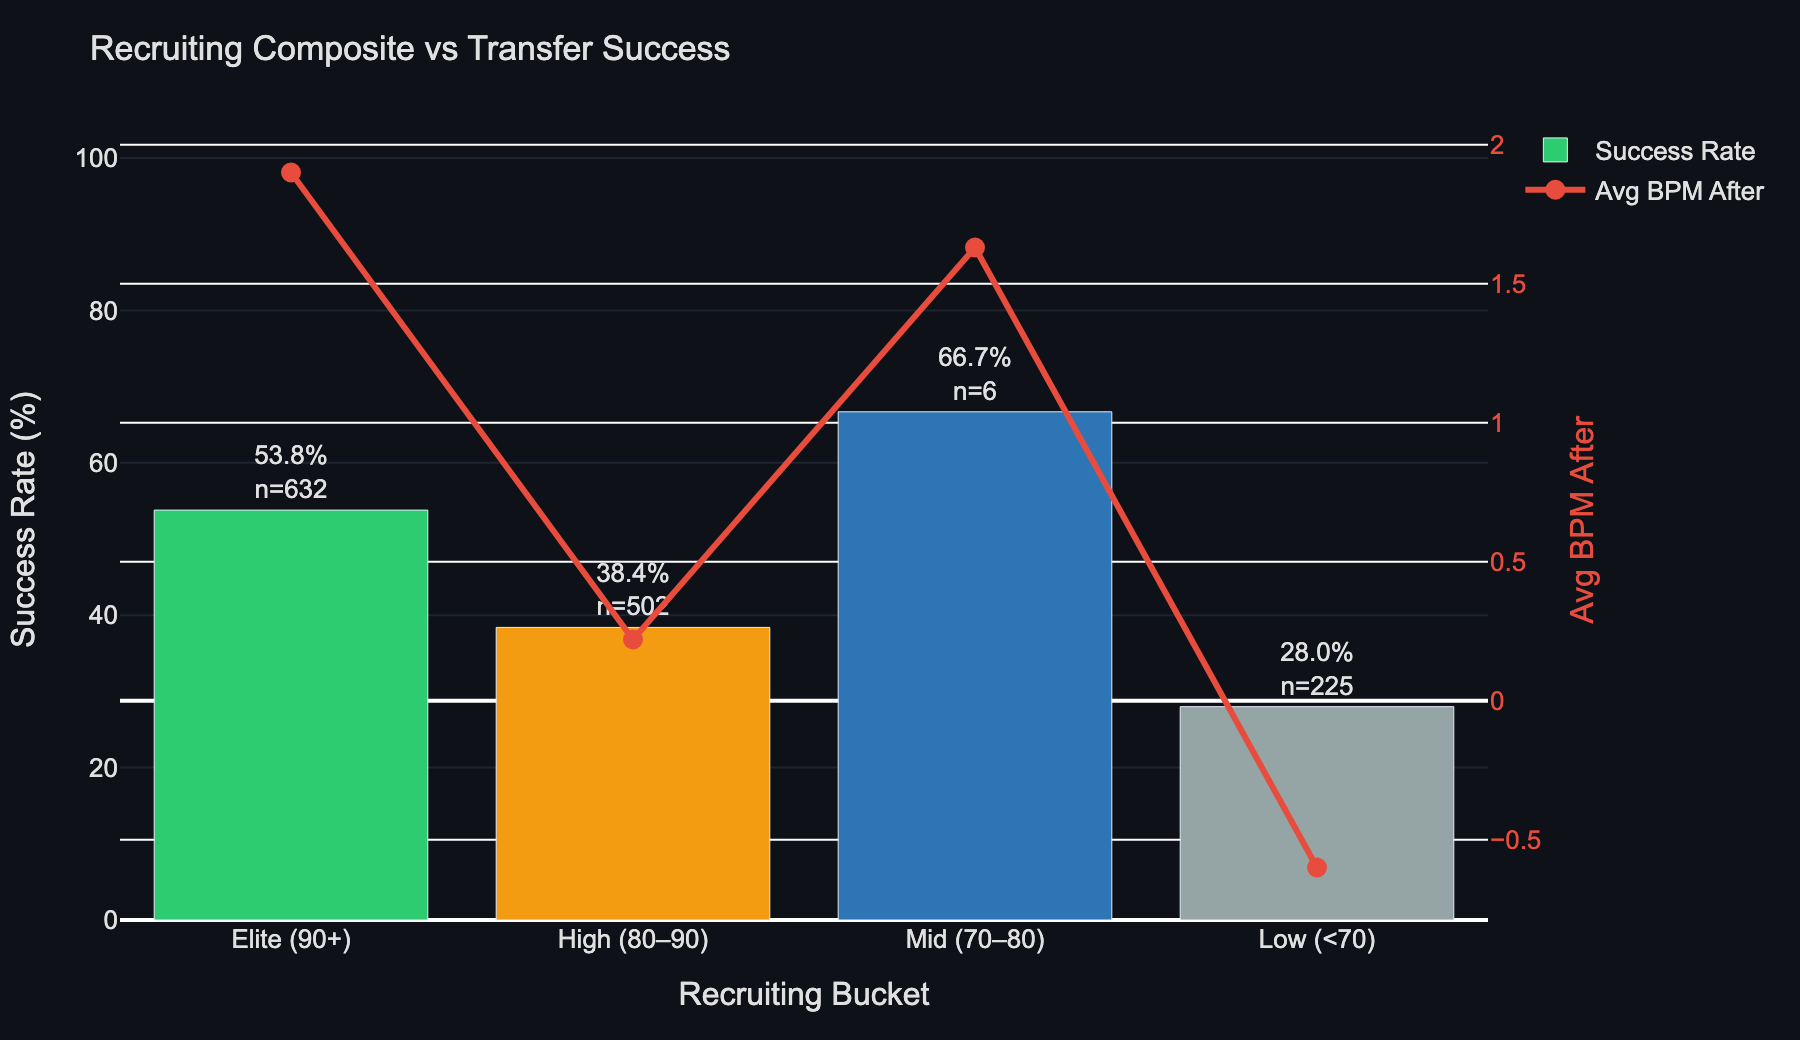
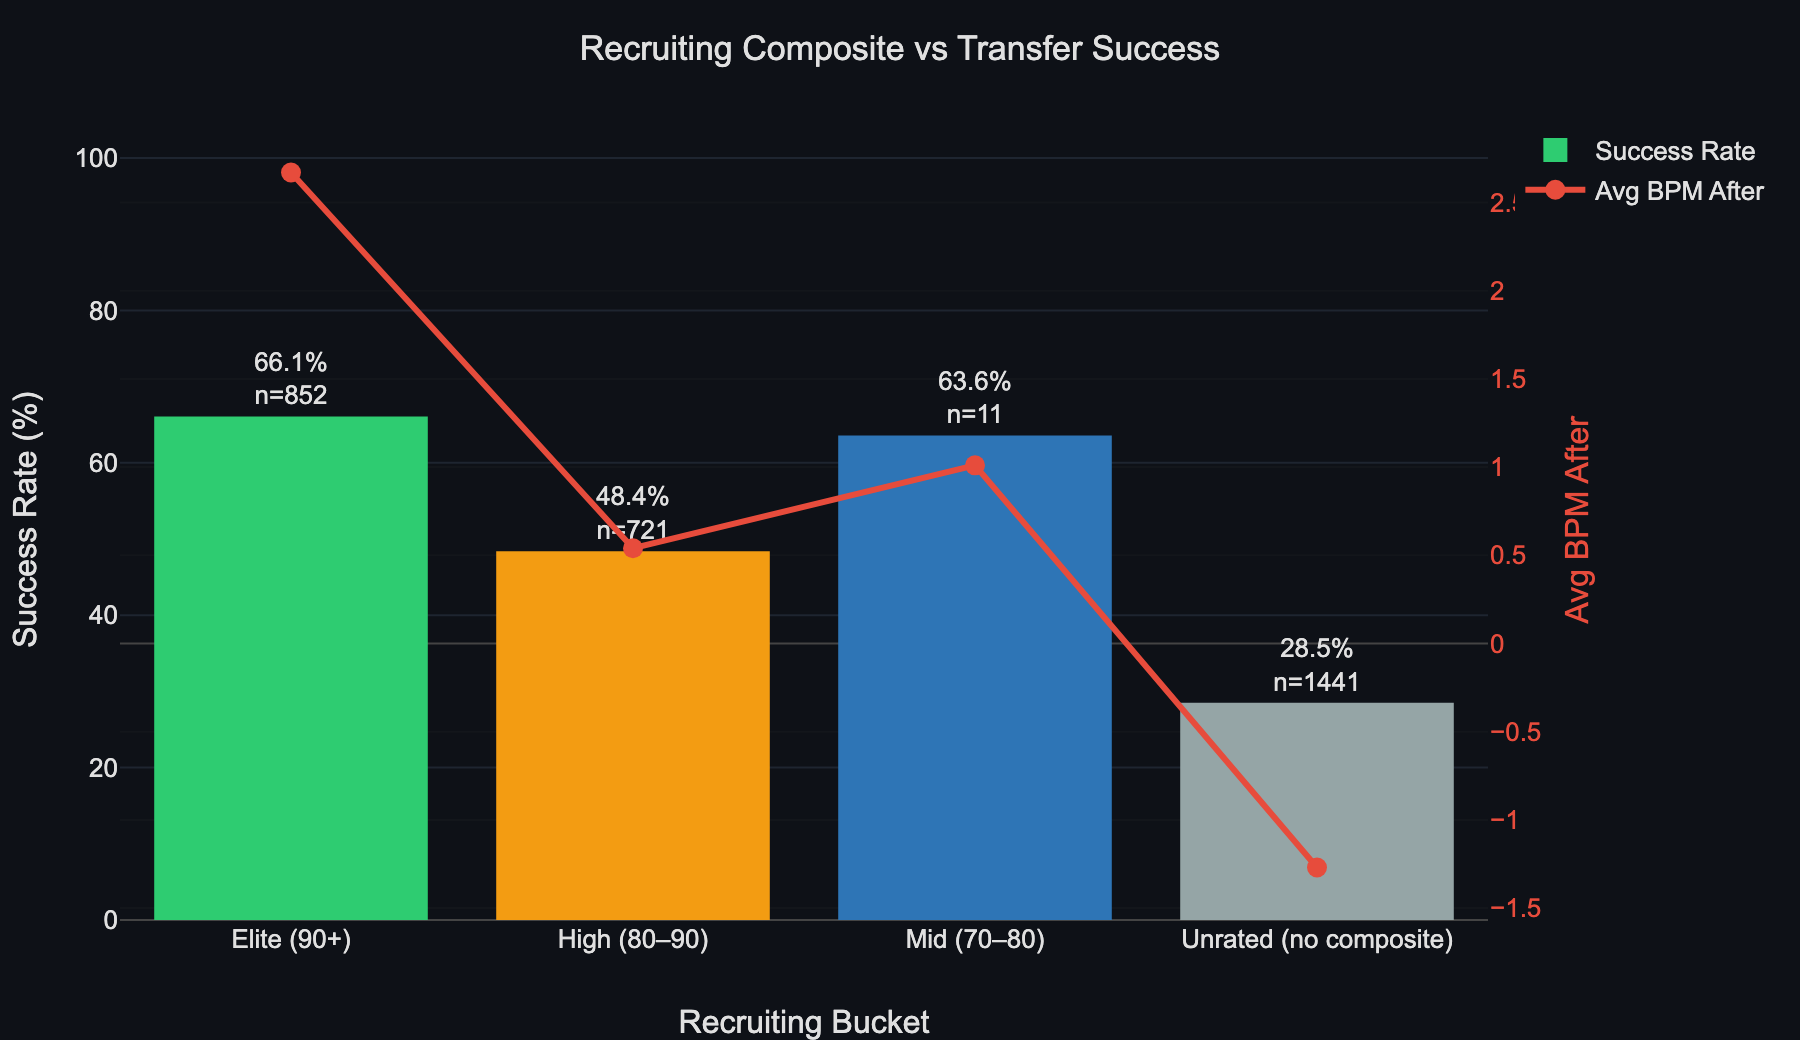
Fix Best Transfer Ever metric truncation; refresh README and charts
- Fix st.metric truncation on Major Takeaways hero row: moved player name
  to label and BPM value to the metric value so it renders fully
- README: fix 3,025 vs 1,038 contradiction, rewrite all 5 chart captions
  to match regenerated data
- generate_charts.py: fix mislabeled bucket ('Low (<70)' → 'Unrated (no
  composite)') which was capturing NULL composites, not low-rated players
- Regenerate all 6 chart PNGs with corrected labels and current DB data

diff --git a/generate_charts.py b/generate_charts.py
@@ -184,7 +184,7 @@ def chart_recruit_vs_success():
             CASE WHEN p.recruiting_composite >= 90 THEN 'Elite (90+)'
                  WHEN p.recruiting_composite >= 80 THEN 'High (80–90)'
                  WHEN p.recruiting_composite >= 70 THEN 'Mid (70–80)'
-                 ELSE 'Low (<70)'
+                 ELSE 'Unrated (no composite)'
             END AS bucket,
             CASE WHEN p.recruiting_composite >= 90 THEN 1
                  WHEN p.recruiting_composite >= 80 THEN 2

diff --git a/app.py b/app.py
@@ -603,7 +603,7 @@ with tabX:
         h1.metric("Transfers Analyzed", f"{int(hero['total_scored'][0]):,}")
         h2.metric("High Value Rate", f"{hero['hv_pct'][0]}%")
         h3.metric("Avg BPM After Transfer", f"{hero['avg_bpm'][0]:+.2f}")
-        h4.metric("Best Transfer Ever", f"{hero['best_player'][0]} (+{hero['best_bpm'][0]:.1f})")
+        h4.metric(f"🐐 Best Ever · {hero['best_player'][0]}", f"+{hero['best_bpm'][0]:.1f} BPM")
 
         st.markdown("---")
 

diff --git a/README.md b/README.md
@@ -22,37 +22,37 @@ All scrapers use 2–3s delays between requests and handle 429 rate-limit respon
 
 ### Transfer Success Rate by Tier Movement
 ![Tier heatmap](assets/01_tier_heatmap.png)
-*Every cell shows the success rate and sample size for that origin → destination tier pair. High Major → High Major is the most active route (n=311, 69.1%). High Major → Mid Major is the weakest at 42.1% — the largest downgrade in success rate for any high-volume route.*
+*Every cell shows the success rate and sample size for that origin → destination tier pair. High Major → High Major is the most active route by far (n=510, 70.0%). High Major → Mid Major is the steepest high-volume downgrade — success drops to 37.0% (n=262) once a player moves down two tiers.*
 
 ---
 
 ### High-Major Success Rate by Origin Tier
 ![Origin tier success](assets/02_origin_tier_success.png)
-*At high-major destinations, low-major (74.4%) and mid-major (69.7%) step-ups slightly outperform same-tier high-major laterals (69.1%). High-mid major transfers (67.1%) are the weakest, suggesting over-competition relative to expectation at high-major programs.*
+*At high-major destinations, success rates cluster tightly across all four origin tiers (66.0%–70.0%). Same-tier laterals (High Major → High Major) hold the edge at 70.0% — also the largest pipeline by volume (n=510). Step-ups from Mid Major land lowest at 66.0% (n=209), but the spread across all origins is under 4 points, suggesting origin tier alone isn't a strong differentiator once a player reaches a high-major program.*
 
 ---
 
 ### Top 15 Transfers by Context Score
 ![Top transfers](assets/03_top_transfers.png)
-*Context score = `bpm_after × tier_weight × role_weight`. It rewards performing at a high level in a harder environment with a smaller role. Walker Kessler (North Carolina → Auburn, ctx=20.9), Oscar Tshiebwe (West Virginia → Kentucky, 18.0), and Tari Eason (Cincinnati → LSU, 16.9) lead the dataset — all moved to high-major programs and exceeded expectations.*
+*Context score = `bpm_after × tier_weight × role_weight`. It rewards performing at a high level in a harder environment with a smaller role. Walker Kessler (North Carolina → Auburn, ctx=20.1), Oscar Tshiebwe (West Virginia → Kentucky, 18.0), and Maliq Brown (Syracuse → Duke, 17.1) lead the dataset — all moved to high-major programs and exceeded expectations.*
 
 ---
 
 ### Recruiting Composite vs Transfer Success
 ![Recruit vs success](assets/04_recruit_vs_success.png)
-*Recruiting pedigree is the single strongest predictor of transfer success. Elite recruits (90+ composite) succeed at 83.5% and average +4 BPM after transferring. Low-recruit players succeed at 42.6% and average negative BPM — pedigree doesn't expire.*
+*Recruiting pedigree remains a strong predictor of transfer success, and the cleanest signal sits at the extremes. Elite recruits (90+ composite, n=852) succeed at 66.1% and average +2.67 BPM after transferring; players with no recruiting composite on record at all (n=1,441 — largely international, JUCO, and walk-on transfers, not "low-rated" recruits) succeed at just 28.5% and average −1.27 BPM. The "Mid (70–80)" bar's 63.6% sits on only 11 players — too small a sample to read as a trend rather than noise.*
 
 ---
 
 ### Success Rate by Position & Origin Tier (High-Major Destinations)
 ![Position success](assets/05_position_success.png)
-*The standout: high-mid major Centers transferring to high-major programs succeed at 92.9% — the highest of any position/route combination. Low-major Forwards are also elite at 87.5%. Mid-major Guards are the weakest route at 69.2%.*
+*Guards are the largest pool by far (n=405 from high-major origins alone) and cluster tightly around 64–70% regardless of origin tier — the most statistically stable read in this chart. Forwards post higher, more variable rates (72.8%–83.3%) but on much smaller samples (n=12–81 per cell). Center cells are too thin to draw conclusions from (n=5–24); a figure like the 55.6% for High-Mid-Major-origin Centers rests on just 9 transfers and will keep swinging as more seasons are added.*
 
 ---
 
 ### Verdict Distribution
 ![Verdict distribution](assets/06_verdict_distribution.png)
-*Across all 1,038 scored transfers, the model uses absolute BPM after transfer as the verdict threshold — the bar is the same regardless of where a player came from. Coverage spans 2021-22 through 2024-25.*
+*Across all 3,025 scored transfers, the model uses absolute BPM after transfer as the verdict threshold — the bar is the same regardless of where a player came from. Coverage spans 2020-21 through 2024-25.*
 
 ---
 
@@ -273,7 +273,7 @@ Sidebar filters: season, position, destination tier.
 - [x] Context score model live — verdicts use absolute bpm_after, context_score used for ranking only
 - [x] 5 SQL views including materialized peer baseline (`tier_pair_expectations`)
 - [x] Data cleaning: small-sample BPM nulled (< 12 games), duplicate transfers resolved, view Cartesian products fixed
-- [x] **1,038 fully scored transfers** across 4 seasons (2021-22 through 2024-25) — 100% real CBB Reference data
+- [x] **3,025 fully scored transfers** across 5 seasons (2020-21 through 2024-25) — 100% real CBB Reference data
 - [x] JUCO/D2/D3/NAIA origin support via `sub_d1` tier — scores based on D1 destination BPM
 - [x] 6-tab Streamlit dashboard: Overview, Individual Scores, Team Portfolio, Recruit Profiles, Player Fit Finder, Coach Search
 - [x] Coach Search: Strong Match / Match tiers, USG%-based role projection, CBB Reference links
